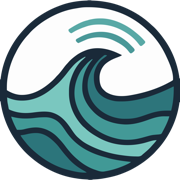
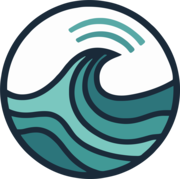
Improve team images for SURF

diff --git a/config.py b/config.py
@@ -16,7 +16,7 @@ BRANDING_PROFILES = {
         ]
     },
     'SURF': {
-        'logo_path': 'images/SURF/SURFLogo.jpg',
+        'logo_path': 'images/SURF/TeamLogo.png',
         'callsign': 'SURF',
         'site_name': 'SURF Exam Results',
         'subtitle': 'For convenience only, not part of ExamTools.org',
